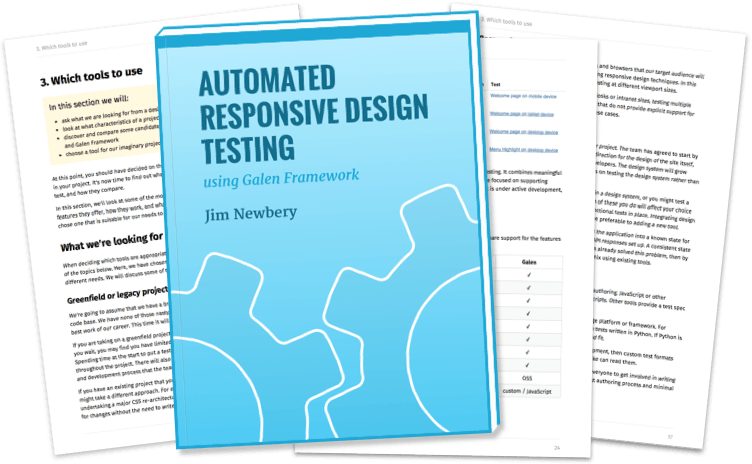
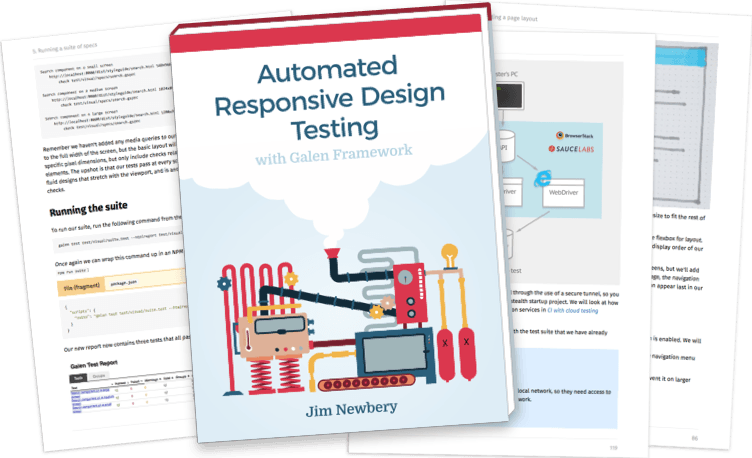
New cover (#39)
* Cover and colours

* New sample chapter image

* Typography changes

diff --git a/_sass/landing/_vars.scss b/_sass/landing/_vars.scss
@@ -1,25 +1,33 @@
+// New colours
+
+$color-cerise-red: #db374d;
+$color-calypso: #2b5f7b;
+$color-link-water: #ddedf6;
+$color-shakespeare: #5cabd6;
+$color-crown-of-thorns: #77212e;
+
+
 // Colours
 $color-curious-blue: #1EA8D6;
 $color-picton-blue: #46C7F2;
 
 $mirage: #1C2B31;
 $cape-cod: #393D3E;
-$nearly-white: #FDFDFD;
 $silver-sand: #BDC1C3;
 $barley-white: #FFF2D2;
 $mine-shaft: #333;
 
-$color-primary: $color-curious-blue;
+$color-primary: $color-shakespeare;
 $color-secondary: $color-picton-blue;
 $color-secondary-light: lighten($color-secondary, 18%);
 $color-tertiary: $barley-white;
 $color-dark-text: $mine-shaft;
 
 $color-text: $cape-cod;
-$color-background: $nearly-white;
+$color-background: #fff;;
 
-$color-deep-background: $mirage;
-$color-deep-text: $nearly-white;
+$color-deep-background: darken($color-calypso, 10%);
+$color-deep-text: #fff;
 $color-deep-text-secondary: $silver-sand;
 
 $color-link-text: $color-primary;
@@ -37,3 +45,8 @@ $tablet: 45rem;
 // Animation
 
 $transition-time: 0.3s;
+
+// Fonts
+
+$family-display: 'Montserrat', sans-serif;
+$family-body: 'Merriweather', serif;

diff --git a/_sass/landing/_typography.scss b/_sass/landing/_typography.scss
@@ -4,34 +4,35 @@ h1, h2, h3, h4, h5, h6, p, ul {
 }
 
 h1, h2 {
-  font-family: Oswald, sans-serif;
+  font-family: $family-display;
+  font-weight: normal;
   text-align: center;
 }
 
 h1 {
-  font-size: 2.5rem;
+  font-size: 2.2rem;
   letter-spacing: .015em;
-  line-height: 1.5;
+  line-height: 1.2;
 
   @include breakpoint-up($phablet) {
-    font-size: 3.25rem;
+    font-size: 2.75rem;
   }
 
   @include breakpoint-up($tablet) {
-    font-size: 4rem;
+    font-size: 3.5rem;
   }
 }
 
 h2 {
-  font-size: 2rem;
-  line-height: 1.3;
+  font-size: 1.8rem;
+  line-height: 1.2;
 
   @include breakpoint-up($phablet) {
-    font-size: 2.5rem;
+    font-size: 2.2rem;
   }
 
   @include breakpoint-up($tablet) {
-    font-size: 3rem;
+    font-size: 2.5rem;
   }
 }
 

diff --git a/_sass/landing/_callouts.scss b/_sass/landing/_callouts.scss
@@ -1,13 +1,14 @@
 .intro,
 .callout {
-  box-shadow: inset 0 0 30px rgba(0,0,0,.13);
   margin-bottom: $vertical-unit;
   padding-bottom: 1px;
   padding-top: $vertical-unit;
 }
 
 .intro {
-  background-color: darken($color-background, 2%);
+  border-top: 5px solid rgba(0,0,0,.2);
+  box-shadow: 0 -20px 0 0 rgba(0,0,0,.2);
+  background-color: $color-link-water;
 }
 
 .callout {
@@ -15,13 +16,12 @@
 }
 
 .callout-light {
-  background-color: rgba($color-secondary, .25);
-  color: $mirage;
+  background-color: $color-link-water;
 }
 
 .callout-dark {
-  background-color: $mirage;
-  color: $nearly-white;
+  background-color: $color-deep-background;
+  color: $color-deep-text;
 }
 
 .callout-buy {

diff --git a/_layouts/landing.html b/_layouts/landing.html
@@ -14,7 +14,7 @@
       dataLayer = [];
       // Fonts
       WebFontConfig = {
-        google: { families: [ 'Merriweather:400,700,400italic:latin', 'Oswald::latin' ] }
+        google: { families: [ 'Merriweather:400,700,400italic:latin', 'Montserrat:400:latin' ] }
       };
       (function() {
         var wf = document.createElement('script');

diff --git a/_sass/landing/_base.scss b/_sass/landing/_base.scss
@@ -30,7 +30,7 @@ html {
 body {
   background-color: $color-background;
   color: $color-text;
-  font-family: 'Merriweather', serif;
+  font-family: $family-body;
   font-size: 1rem;
   line-height: 1.6;
   -webkit-font-smoothing: antialiased;

diff --git a/_sass/landing/_buttons.scss b/_sass/landing/_buttons.scss
@@ -48,7 +48,7 @@
 }
 
 .button-priced-price {
-  border-right: 1px solid rgba($nearly-white, 0.3);
+  border-right: 1px solid rgba($color-background, 0.3);
   padding-right: .8rem;
 }
 

diff --git a/_sass/landing/_header.scss b/_sass/landing/_header.scss
@@ -42,7 +42,7 @@
   margin-bottom: -2rem;
   margin-left: auto;
   margin-right: auto;
-  max-width: 400px;
+  max-width: 500px;
   position: relative;
   top: 5rem;
   width: 85%;
